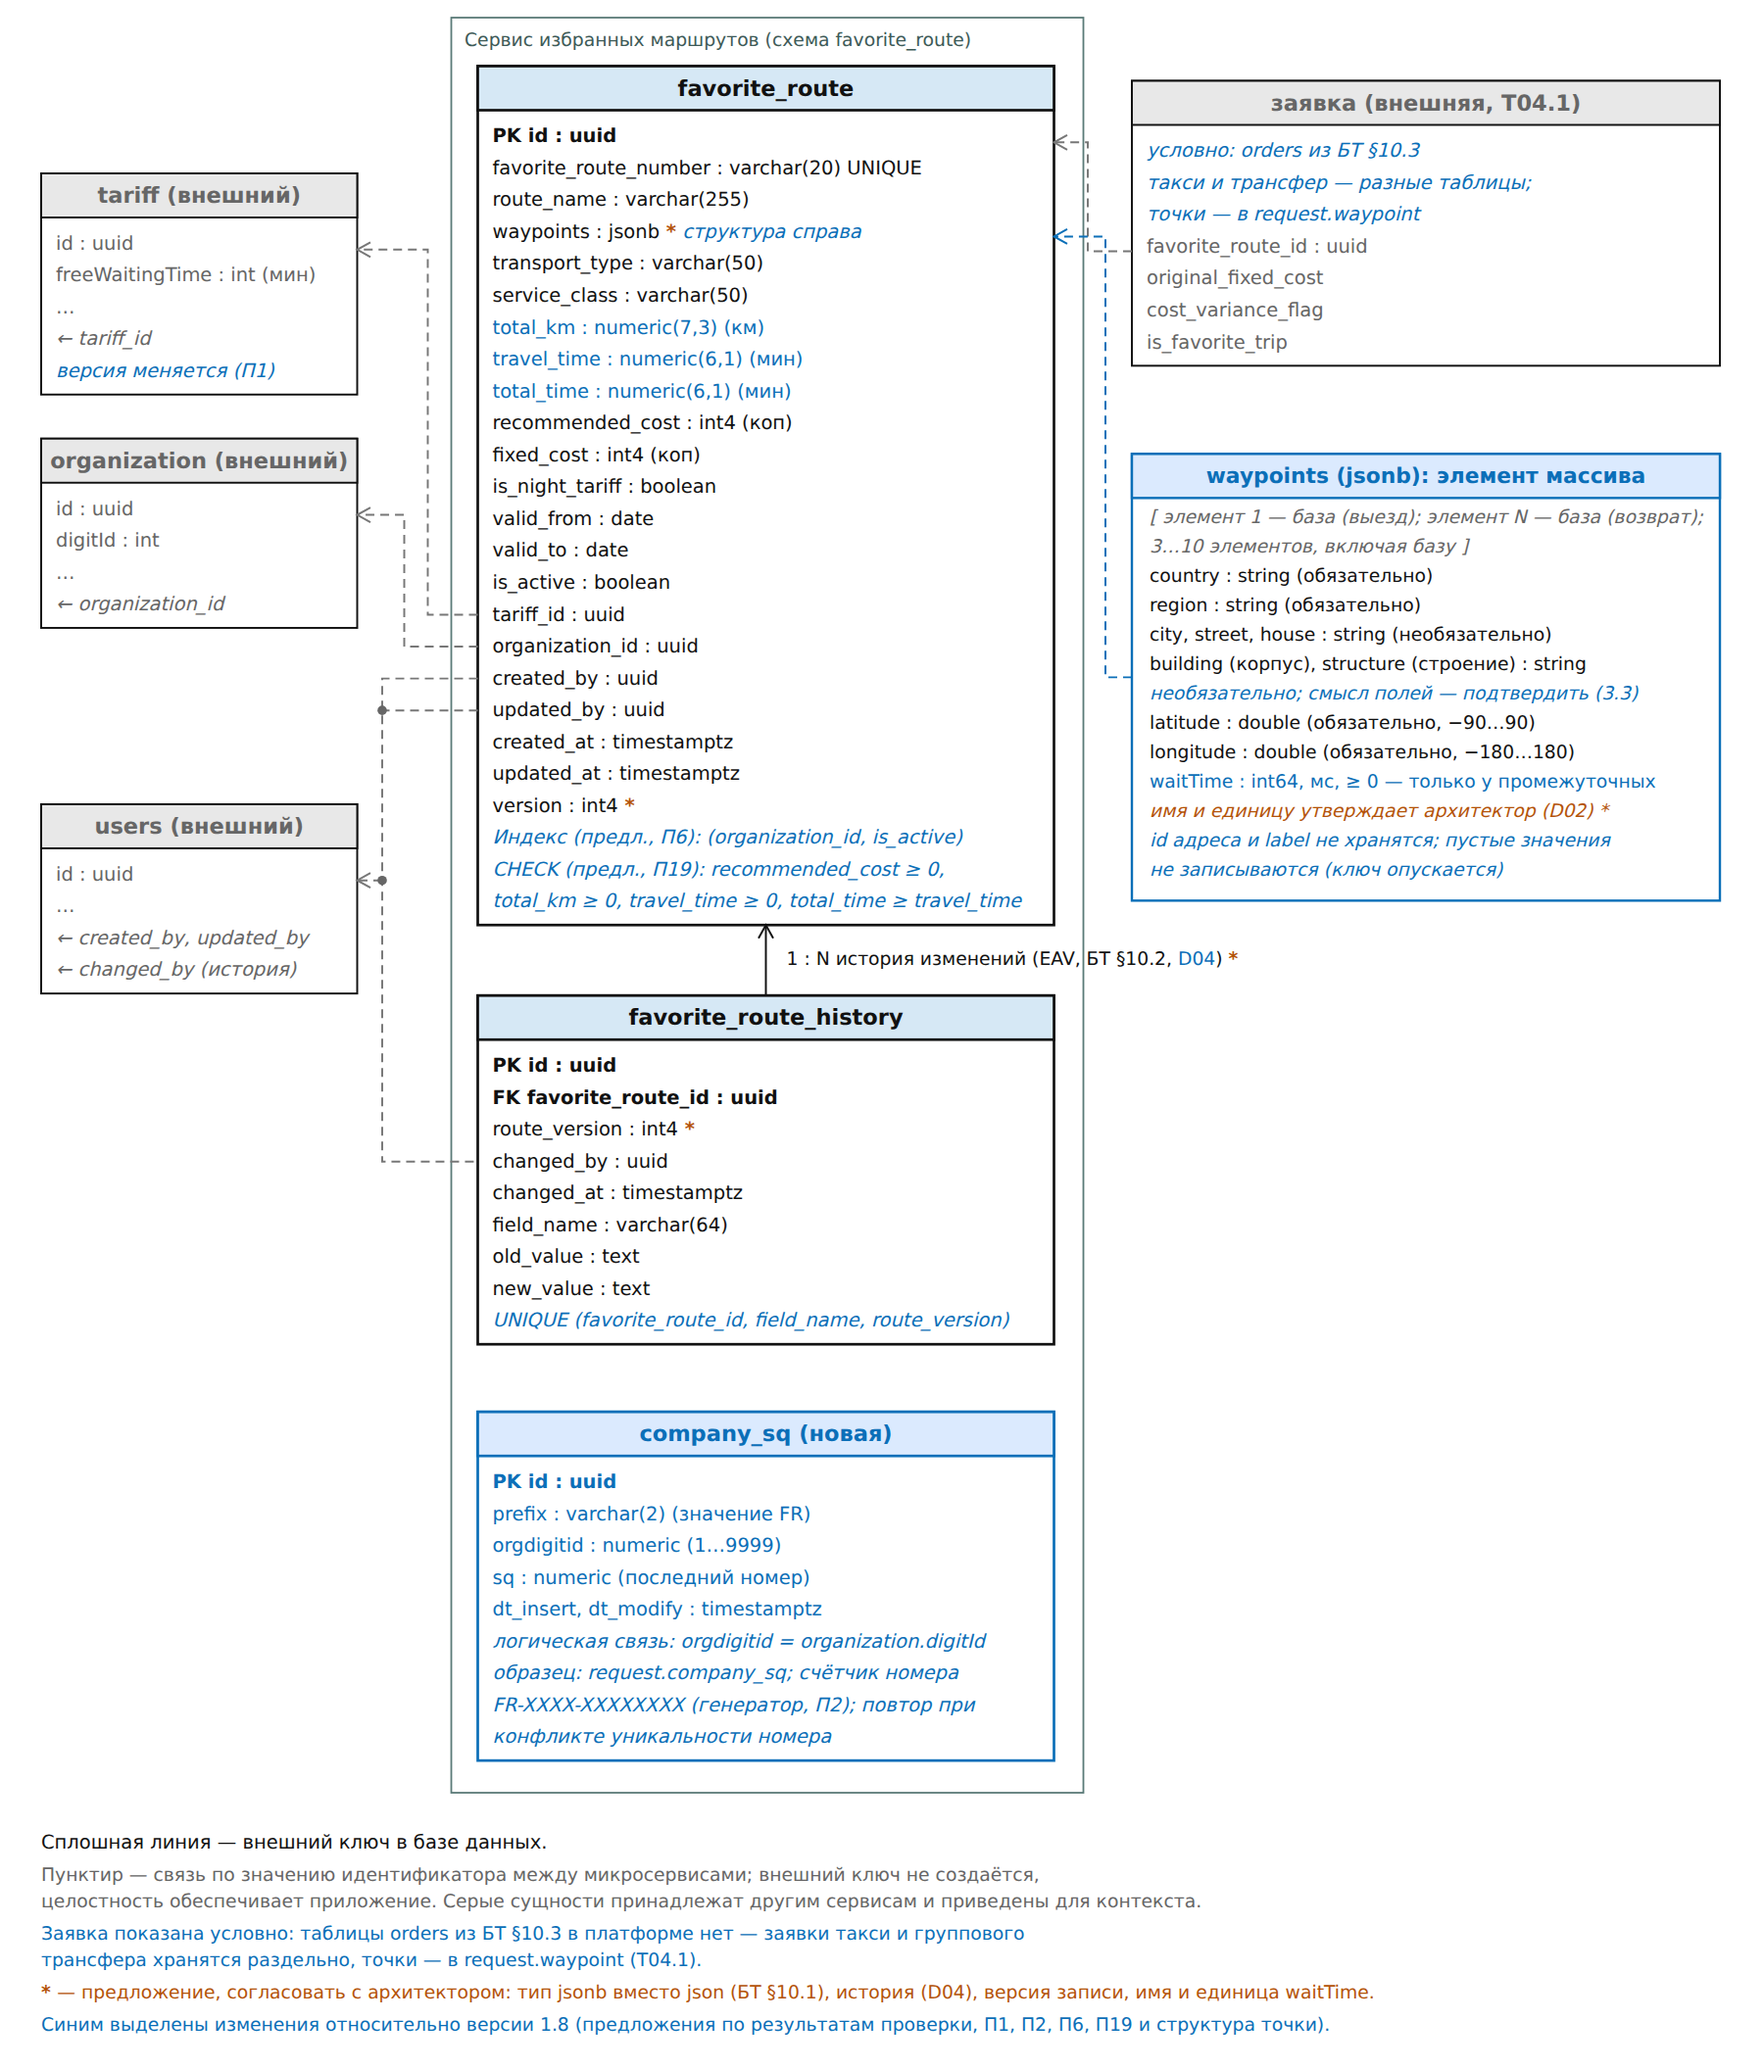
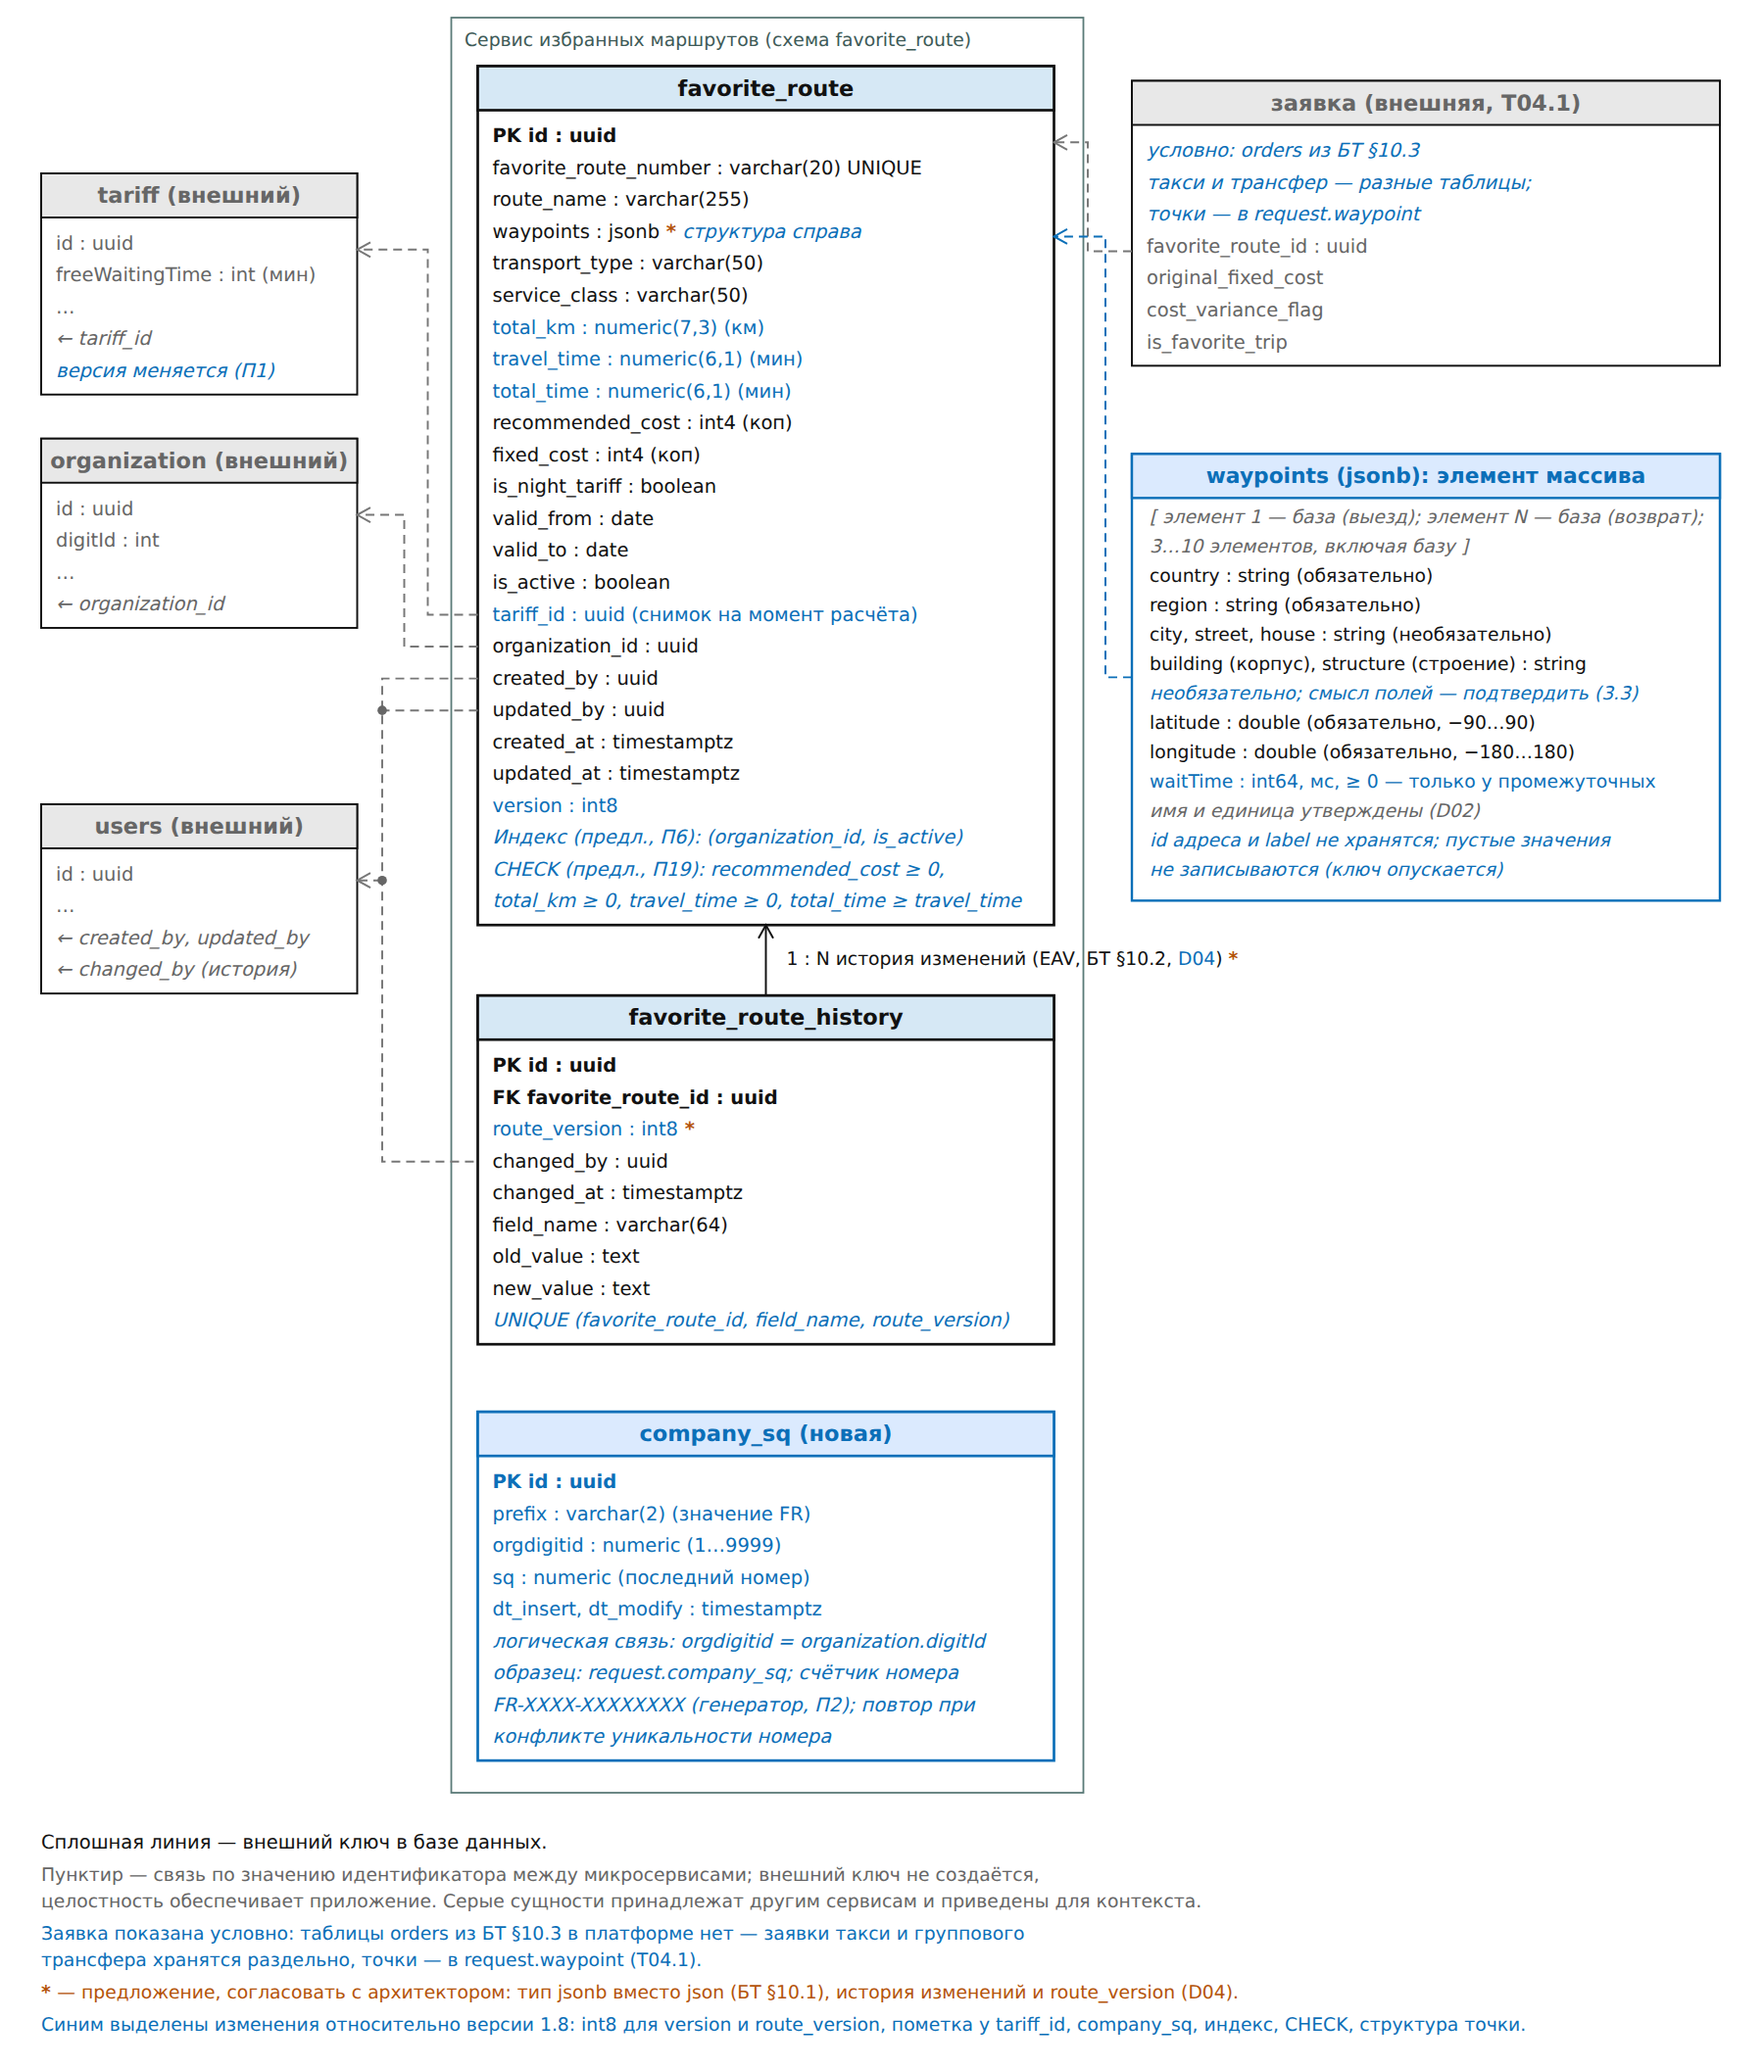
ER-диаграмма и таблицы полей: version и route_version int8, waitTime int64 (решения 02.10)
Claude-Session: https://claude.ai/code/session_01AmZ3qEFEGt9UrF12WuLMHz

Changed region(s): [[0.3422, 0.9375, 0.7467, 1.0], [0.7467, 0.375, 0.84, 0.4062], [0.3733, 0.2812, 0.4044, 0.3125]]

diff --git a/ПРОВЕРКА_T01.1_v1.8.md b/ПРОВЕРКА_T01.1_v1.8.md
@@ -417,3 +417,10 @@
 7. Блок «заявка» уточнён: таблицы заявок такси и трансфера раздельны, точки лежат в `request.waypoint`.
 8. Убрана синяя подсветка v1.7 (service_class, total_km, version теперь базовые), легенда обновлена.
 
+## Принятые решения от 02.10.2026
+
+- `version` и `route_version` — `int8` (в Java `Long`); тип у обоих одинаковый. В DDL: `version int8 NOT NULL DEFAULT 0`, `route_version int8 NOT NULL`.
+- `waitTime` — `int64`, миллисекунды, на уровне точки (D02). Пометка «на согласовании» с диаграммы снята.
+- `contract_id` и `region_id` в таблицу не добавляются; привязка тарифа и проверка его доступности в списке (П1) остаются открытыми, вариант Г (тариф через штатный `calculate` при оформлении заявки) не покрывает проверку при выдаче списка.
+- Обновлённые файлы: `диаграммы/ER_favorite_route_v1.9_proposal.png|svg`, `T01.1_Состав_полей_v1.9_предложение.docx`.
+
